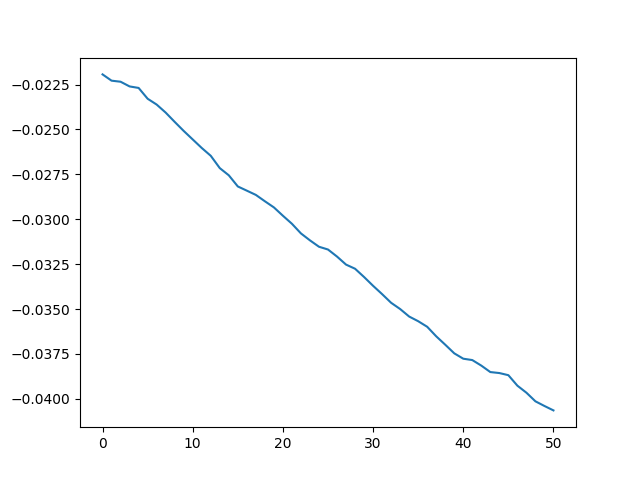
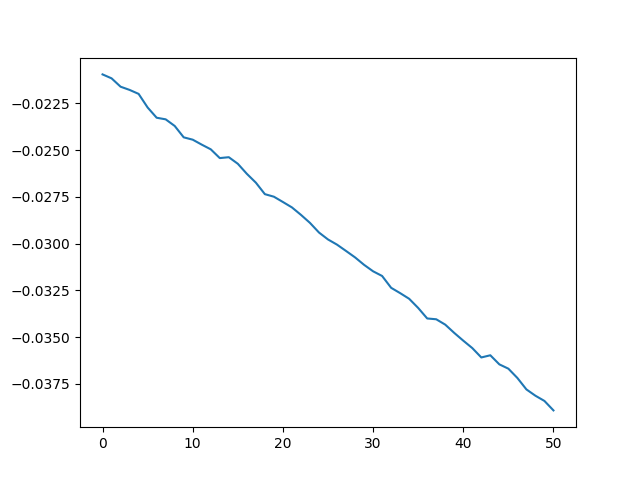
breakout

diff --git a/env_utils.py b/env_utils.py
@@ -820,7 +820,7 @@ class Breakout(EnvUtil):
 
                 #print(observation_)
                 observation_ = self.preprocess(observation_)
-                #r['game_score'] += reward
+                r['game_score'] += int(reward>0)
 
                 observation = np.concatenate([observation[len(observation) // 2:], observation_])
 
@@ -838,7 +838,6 @@ class Breakout(EnvUtil):
                 frame_count += 1
             r['best_shot'] += best_shot
             r['n_hits'] += hits
-            r['game_score'] += observation[3-self.state_dim] / 0.004
             best_shot = 0
             n_games += 1
 
@@ -904,7 +903,7 @@ class Breakout(EnvUtil):
                 else:
                     observation = np.concatenate([observation[len(observation) // 2:], observation_])
                     is_hit = self.is_hit(observation)
-                    trajectory['rew'][batch_index, frame_count] = (reward-self.d_lives(observation))* player.reward_weight[0] \
+                    trajectory['rew'][batch_index, frame_count] = (np.float32(reward>0)-self.d_lives(observation))* player.reward_weight[0] \
                                                               + self.combo_bonus(reward) * player.reward_weight[1] \
                                                                    + np.float32(is_hit) * player.reward_weight[2] \
                                                                 -np.float32(self.on_sides(observation))*0.05

diff --git a/rl_test.py b/rl_test.py
@@ -53,7 +53,7 @@ class RLtest:
         c = 1
         obs = None
         try:
-            self.player.reward_weight[:] = 1., 0.2, 0.2
+            self.player.reward_weight[:] = 1., 0.01, 0.8
 
             while True:
                 obs = self.util.play(self.player,
